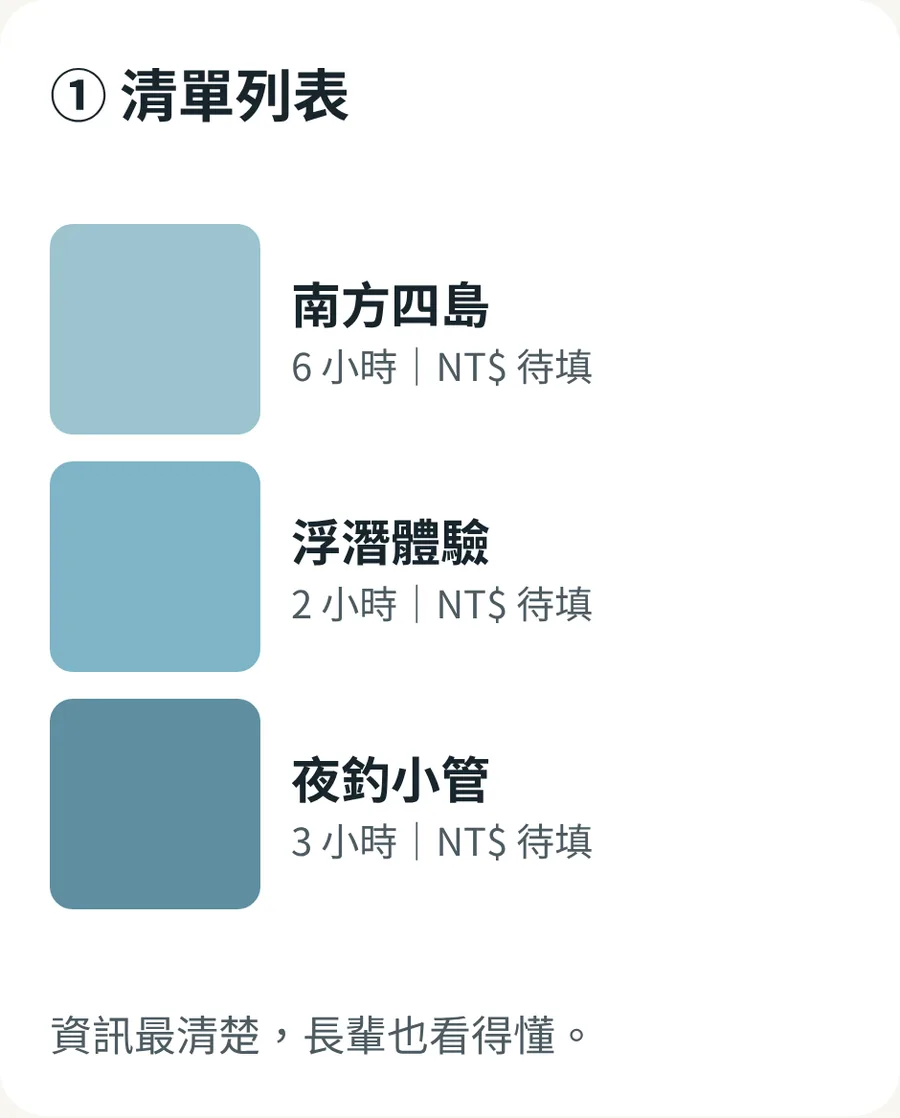
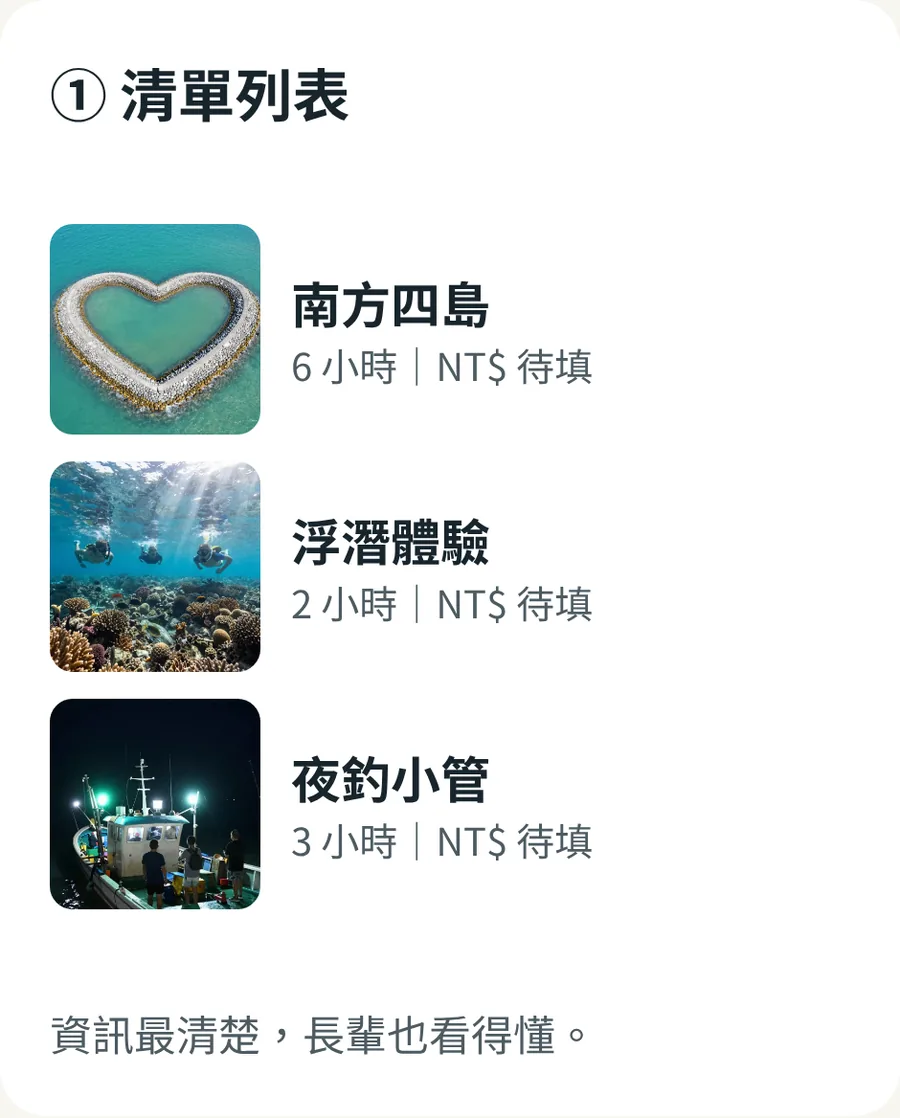
選配頁：加入示意照片、筆電版面
Claude-Session: https://claude.ai/code/session_01Bt9U6eVaK9NriKmweKL2ZT

Changed region(s): [[0.0311, 0.1825, 0.3111, 0.8211]]

diff --git a/pick.html b/pick.html
@@ -53,7 +53,7 @@ h1{font-size:30px;line-height:1.3;margin:0 0 8px;font-weight:900;text-wrap:balan
 .multi .mark{border-radius:9px}
 .opt[aria-pressed="true"] .mark{background:var(--sea);border-color:var(--sea)}
 .opt[aria-pressed="true"] .mark::after{content:"";width:9px;height:16px;border:solid #fff;border-width:0 3.5px 3.5px 0;transform:translateY(-2px) rotate(45deg)}
-.rec{position:absolute;top:12px;right:12px;background:#f2a541;color:#2a1c05;font-size:14px;font-weight:900;border-radius:999px;padding:4px 12px;box-shadow:0 2px 6px rgba(0,0,0,.15)}
+.rec{position:absolute;top:12px;left:12px;background:#f2a541;color:#2a1c05;font-size:14px;font-weight:900;border-radius:999px;padding:4px 12px;box-shadow:0 2px 6px rgba(0,0,0,.15)}
 .bad{position:absolute;top:12px;right:12px;background:var(--red);color:#fff;font-size:14px;font-weight:900;border-radius:999px;padding:4px 12px}
 .views{display:flex;gap:8px;padding:0 16px 16px}
 .views button{flex:1;min-height:46px;border:2px solid var(--line);background:#fff;border-radius:12px;font-size:16px;font-weight:700;color:var(--sea)}
@@ -62,7 +62,7 @@ h1{font-size:30px;line-height:1.3;margin:0 0 8px;font-weight:900;text-wrap:balan
 .tcard[aria-pressed="true"]{border-color:var(--sea)}
 .tcard .t{flex:1;min-width:0}
 .tcard b{display:block;font-size:21px;line-height:1.35}
-.tg{display:inline-block;font-style:normal;font-size:14px;font-weight:900;border-radius:999px;padding:2px 12px;margin-bottom:6px}
+.opt .txt .tg,.tg{display:inline-block;margin-top:0;font-style:normal;font-size:14px;font-weight:900;border-radius:999px;padding:2px 12px;margin-bottom:6px}
 .tcard .mark,.opt .txt .mark,.chip .mark{display:grid;place-items:center;margin:0;padding:0}
 .rec2{background:#f2a541;color:#2a1c05}.bad2{background:var(--red);color:#fff}
 .tcard span{display:block;font-size:16px;color:var(--muted);margin-top:4px;line-height:1.6}
@@ -137,9 +137,35 @@ textarea{min-height:90px;resize:vertical}
 .viewer .vh b{flex:1;font-size:17px}
 .viewer .vh button{border:0;background:#fff;color:var(--ink);border-radius:12px;min-height:44px;padding:0 18px;font-size:17px;font-weight:900}
 .viewer .vb{flex:1;overflow:auto;-webkit-overflow-scrolling:touch;padding:0 0 calc(20px + env(safe-area-inset-bottom,0px))}
-.viewer .vb img{width:100%;max-width:900px;margin:0 auto}
+.viewer .vb img{width:100%;max-width:1280px;margin:0 auto}
+.viewer.narrow .vb img{max-width:440px}
 .viewer .tip{color:#cfe0e6;font-size:14px;text-align:center;padding:8px}
 .toast{position:fixed;left:50%;transform:translateX(-50%);bottom:calc(96px + env(safe-area-inset-bottom,0px));background:var(--ink);color:#fff;border-radius:999px;padding:10px 18px;font-size:15px;z-index:60;white-space:nowrap}
+
+/* ---------- 筆電版 ---------- */
+@media (min-width: 900px){
+  body{font-size:18px}
+  .col{max-width:1240px}
+  .top .row{height:60px}
+  main{padding-top:30px}
+  h1{font-size:38px}
+  .why{font-size:19px;margin-bottom:22px}
+  .opts{grid-template-columns:repeat(3,minmax(0,1fr));gap:22px;align-items:start}
+  .opts.two{grid-template-columns:repeat(2,minmax(0,1fr))}
+  .opts.textg{grid-template-columns:repeat(2,minmax(0,1fr));align-items:stretch}
+  .feat{display:grid;grid-template-columns:repeat(2,minmax(0,1fr));column-gap:40px;padding:6px 26px}
+  .fr:nth-child(2){border-top:0;padding-top:2px}
+  .acts-grid{display:grid;grid-template-columns:repeat(3,minmax(0,1fr));gap:16px;align-items:start}
+  .acts-grid .cat+.cat{margin-top:0}
+  .scr-grid{display:grid;grid-template-columns:repeat(2,minmax(0,1fr));gap:22px;align-items:start}
+  .scr-grid .scr+.scr{margin-top:0}
+  .scr .pv{max-height:360px}
+  .steps{grid-template-columns:repeat(2,minmax(0,1fr));column-gap:16px}
+  .cover h1{font-size:46px}
+  .note{max-width:760px}
+  .bottom .col{max-width:760px}
+  .sum{max-width:960px}
+}
 @media (prefers-reduced-motion:reduce){*{transition:none!important}}
 </style>
 </head>
@@ -203,7 +229,7 @@ function save(){try{localStorage.setItem(KEY,JSON.stringify({A,cur}))}catch(e){}
 const $=(t,c,h)=>{const e=document.createElement(t);if(c)e.className=c;if(h!=null)e.innerHTML=h;return e};
 const esc=s=>String(s??"").replace(/[&<>"]/g,c=>({"&":"&amp;","<":"&lt;",">":"&gt;",'"':"&quot;"}[c]));
 function toast(m){const t=document.getElementById("toast");t.textContent=m;t.hidden=false;clearTimeout(toast.h);toast.h=setTimeout(()=>t.hidden=true,2000)}
-function viewer(title,src,tip){document.getElementById("vt").textContent=title;document.getElementById("vimg").src=src;document.getElementById("vimg").alt=title;document.getElementById("vtip").textContent=tip||"往下滑看完整畫面";const v=document.getElementById("viewer");v.hidden=false;v.querySelector(".vb").scrollTop=0;document.body.style.overflow="hidden"}
+function viewer(title,src,tip,narrow){document.getElementById("viewer").classList.toggle("narrow",!!narrow);document.getElementById("vt").textContent=title;document.getElementById("vimg").src=src;document.getElementById("vimg").alt=title;document.getElementById("vtip").textContent=tip||"往下滑看完整畫面";const v=document.getElementById("viewer");v.hidden=false;v.querySelector(".vb").scrollTop=0;document.body.style.overflow="hidden"}
 document.getElementById("vclose").onclick=()=>{document.getElementById("viewer").hidden=true;document.body.style.overflow=""};
 
 function answered(p){
@@ -228,20 +254,20 @@ function noteBox(p,label){const d=$("div","note");const l=$("label","",esc(label
 function optImg(p,o,i,box){
   const b=$("button","opt"+(p.multi?" multi":""));b.type="button";b.setAttribute("aria-pressed",isOn(p,o.v));
   const pic=$("div","pic");const im=$("img");im.loading="lazy";im.alt=o.v;im.src=I(p.img+"-"+(i+1));pic.append(im);
-  const tx=$("div","txt",`<span class="t"><b>${esc(o.v)}</b></span><span class="mark" aria-hidden="true"></span>`);
-  b.append(pic,tx);if(o.rec)b.append($("span","rec","建議"));
+  const tx=$("div","txt",`<span class="t">${o.rec?'<i class="tg rec2">建議</i>':""}<b>${esc(o.v)}</b></span><span class="mark" aria-hidden="true"></span>`);
+  b.append(pic,tx);
   b.onclick=()=>{pick(p,o.v);box.querySelectorAll(".opt").forEach((e,j)=>e.setAttribute("aria-pressed",isOn(p,p.o[j].v)))};
   return b}
 
 function optStyle(p,o,i,box){
   const w=$("div","opt");w.setAttribute("aria-pressed",isOn(p,o.v));w.style.cursor="default";
   const b=$("button","");b.type="button";b.style.cssText="display:block;width:100%;border:0;background:transparent;padding:0;text-align:left";
-  const pic=$("div","pic");const im=$("img");im.loading="lazy";im.alt=o.v+" 手機首頁";im.src=I("style-"+o.k+"-top");pic.append(im);
-  b.append(pic,$("div","txt",`<span class="t"><b>${esc(o.v)}</b><span>${esc(o.d)}</span></span><span class="mark" aria-hidden="true"></span>`));
+  const pic=$("div","pic");const pc=$("picture");const so=$("source");so.media="(min-width: 900px)";so.srcset=I("style-"+o.k+"-desk");const im=$("img");im.loading="lazy";im.alt=o.v+" 首頁";im.src=I("style-"+o.k+"-top");pc.append(so,im);pic.append(pc);
+  b.append(pic,$("div","txt",`<span class="t">${o.rec?'<i class="tg rec2">建議</i>':""}<b>${esc(o.v)}</b><span>${esc(o.d)}</span></span><span class="mark" aria-hidden="true"></span>`));
   b.onclick=()=>{pick(p,o.v);box.querySelectorAll(":scope > .opt").forEach((e,j)=>e.setAttribute("aria-pressed",isOn(p,p.o[j].v)))};
-  const vs=$("div","views");const m=$("button","","看完整手機版");m.type="button";m.onclick=()=>viewer(o.v+"｜手機版",I("style-"+o.k+"-full"));
-  const d=$("button","","看電腦版");d.type="button";d.onclick=()=>viewer(o.v+"｜電腦版",I("style-"+o.k+"-deskfull"),"橫拿手機看會更清楚");
-  vs.append(m,d);w.append(b,vs);if(o.rec)w.append($("span","rec","建議"));return w}
+  const vs=$("div","views");const m=$("button","","看完整手機版");m.type="button";m.onclick=()=>viewer(o.v+"｜手機版",I("style-"+o.k+"-full"),"",1);
+  const d=$("button","","看完整電腦版");d.type="button";d.onclick=()=>viewer(o.v+"｜電腦版",I("style-"+o.k+"-deskfull"),"往下滑看完整畫面");
+  vs.append(d,m);w.append(b,vs);return w}
 
 function optText(p,o,box){
   const b=$("button","tcard");b.type="button";b.setAttribute("aria-pressed",isOn(p,o.v));
@@ -264,6 +290,9 @@ function renderPage(){
   if(p.type==="img")p.o.forEach((o,i)=>box.append(optImg(p,o,i,box)));
   if(p.type==="style")p.o.forEach((o,i)=>box.append(optStyle(p,o,i,box)));
   if(p.type==="text")p.o.forEach(o=>box.append(optText(p,o,box)));
+  if(p.type==="style")box.classList.add("two");
+  if(p.type==="text")box.classList.add("textg");
+  if(p.type==="img"&&(p.o.length===4))box.classList.add("two");
   if(p.type==="img"||p.type==="style"||p.type==="text"){col.append(box);
     if(p.custom){const d=$("div","note");const l=$("label","",esc(p.custom));l.htmlFor="c_"+p.id;const t=$("input");t.type="text";t.id="c_"+p.id;t.value=A[p.id+"_x"]||"";t.oninput=()=>{A[p.id+"_x"]=t.value;save()};d.append(l,t);col.append(d)}
     col.append(noteBox(p))}
@@ -272,20 +301,22 @@ function renderPage(){
     const f=$("div","feat");FEAT.forEach(([n,d])=>{const r=$("div","fr");r.append($("div","",`<b>${esc(n)}</b><span>${esc(d)}</span>`),segRow("f:"+n,["要","之後","不要"]));f.append(r)});
     col.append(q,f,noteBox(p,"還想要什麼功能？（選填）"))}
   if(p.type==="acts"){
+    const ag=$("div","acts-grid");col.append(ag);
     ACTS.forEach(([c,items])=>{const d=$("div","cat");d.append($("h3","",esc(c)));const g=$("div","chips");
       items.forEach(it=>{const b=$("button","chip",`<span class="mark" aria-hidden="true"></span><span>${esc(it)}</span>`);b.type="button";b.setAttribute("aria-pressed",(A.acts||[]).includes(it));
         b.onclick=()=>{let a=A.acts||[];A.acts=a.includes(it)?a.filter(x=>x!==it):[...a,it];save();b.setAttribute("aria-pressed",A.acts.includes(it))};g.append(b)});
-      d.append(g);col.append(d)});
+      d.append(g);ag.append(d)});
     col.append(noteBox({id:"acts"},p.note))}
   if(p.type==="screens"){
+    const sg=$("div","scr-grid");col.append(sg);
     SCR.forEach(([k,t,d])=>{const s=$("div","scr");s.append($("div","head",`<b>${esc(t)}</b><span>${esc(d)}</span>`));
       const pv=$("button","pv");pv.type="button";pv.style.cssText="display:block;width:100%;border:0;padding:0";pv.setAttribute("aria-label","看完整的"+t);
-      const im=$("img");im.loading="lazy";im.alt=t;im.src=I("screen-"+k);pv.append(im);pv.onclick=()=>viewer(t+"｜手機版",I("screen-"+k));
+      const pc=$("picture");const so=$("source");so.media="(min-width: 900px)";so.srcset=I("screen-"+k+"-desk");const im=$("img");im.loading="lazy";im.alt=t;im.src=I("screen-"+k);pc.append(so,im);pv.append(pc);pv.onclick=()=>wide()?viewer(t+"｜電腦版",I("screen-"+k+"-desk")):viewer(t+"｜手機版",I("screen-"+k),"",1);
       const act=$("div","act");const vs=$("div","views");vs.style.padding="0";
-      const m=$("button","","看完整手機版");m.type="button";m.onclick=()=>viewer(t+"｜手機版",I("screen-"+k));
-      const dk=$("button","","看電腦版");dk.type="button";dk.onclick=()=>viewer(t+"｜電腦版",I("screen-"+k+"-desk"),"橫拿手機看會更清楚");vs.append(m,dk);
+      const m=$("button","","看完整手機版");m.type="button";m.onclick=()=>viewer(t+"｜手機版",I("screen-"+k),"",1);
+      const dk=$("button","","看完整電腦版");dk.type="button";dk.onclick=()=>viewer(t+"｜電腦版",I("screen-"+k+"-desk"));vs.append(dk,m);
       const tx=$("input");tx.type="text";tx.id="s_"+k;tx.placeholder="要改的地方（選填）";tx.value=A["s:"+k+"_note"]||"";tx.oninput=()=>{A["s:"+k+"_note"]=tx.value;save()};
-      act.append(vs,segRow("s:"+k,["喜歡","要改","不需要"]),tx);s.append(pv,act);col.append(s)})}
+      act.append(vs,segRow("s:"+k,["喜歡","要改","不需要"]),tx);s.append(pv,act);sg.append(s)})}
   if(p.type==="sum")renderSum(col);
   app.append(main);
   const bar=$("div","bottom gut");const bc=$("div","col");
@@ -330,7 +361,7 @@ async function submit(){
 
 function renderCover(){
   const n=P.filter(p=>p.type!=="sum"&&answered(p)).length;
-  const c=$("section","cover gut",`<div class="col"><div style="font-size:16px;font-weight:700;opacity:.85">夏澄 × 澎湖旅遊網站</div><h1>一起選出網站<br>長什麼樣子</h1><p>一頁一個問題，點圖就選好，大約 30 分鐘。</p><p>不確定的跳過就好，關掉會自動保存。</p></div>`);
+  const c=$("section","cover gut",`<div class="col"><div style="font-size:16px;font-weight:700;opacity:.85">夏澄 × 澎湖旅遊網站</div><h1>一起選出網站<br>長什麼樣子</h1><p>一頁一個問題，點圖就選好，大約 30 分鐘。</p><p>不確定的跳過就好，關掉會自動保存。</p><p style="font-size:15px;opacity:.8">畫面裡的照片是 AI 示意圖，正式上線會換成民宿實拍。</p></div>`);
   const main=$("main","gut");main.style.paddingTop="0";const col=$("div","col");const st=$("div","steps");
   P.forEach((p,i)=>{const done=answered(p);const b=$("button");b.type="button";
     b.innerHTML=`<span class="no${done?" done":""}">${done?"✓":i+1}</span><span class="tx"><b>${esc(p.t)}</b><span>${p.type==="sum"?"最後一步":done?"已選":"還沒選"}</span></span><span aria-hidden="true" style="color:#8a9aa1;font-size:22px">›</span>`;
@@ -341,6 +372,7 @@ function renderCover(){
   app.append(c,main,bar)}
 
 const app=document.getElementById("app");
+const wide=()=>matchMedia("(min-width: 900px)").matches;
 function render(){app.innerHTML="";if(cur>=0&&P[cur])renderPage();else renderCover()}
 function go(i){cur=Math.max(-1,Math.min(P.length-1,i));save();render();window.scrollTo(0,0)}
 render();
